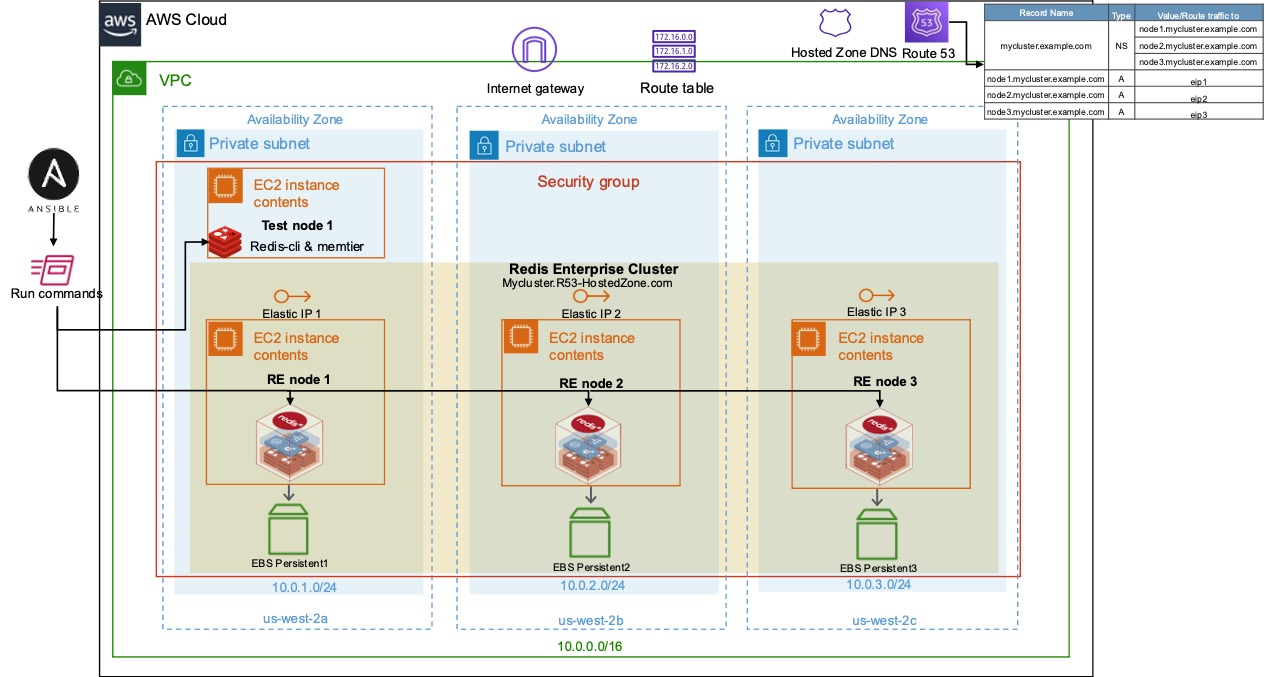
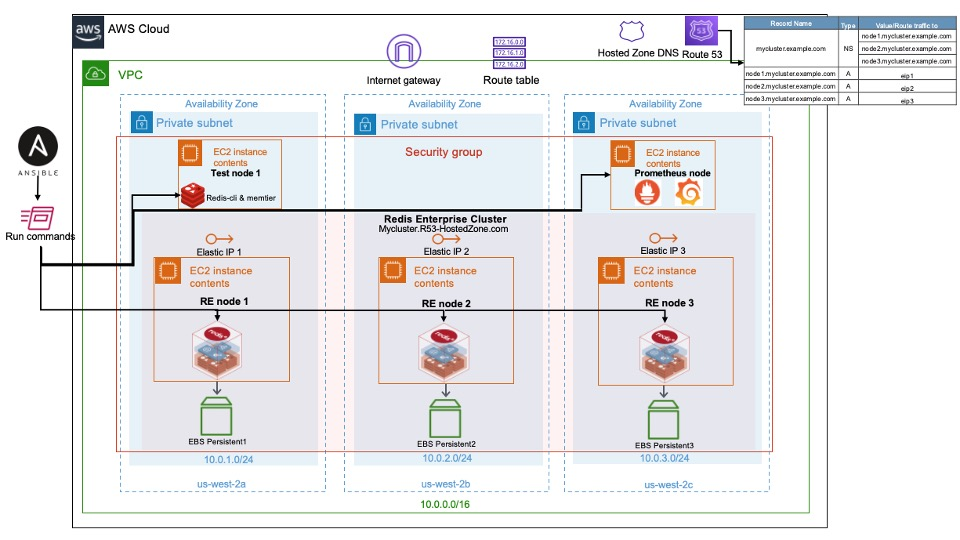
updates

diff --git a/README.md b/README.md
@@ -130,10 +130,14 @@ There are two important files to understand. `modules.tf` and `terraform.tfvars.
  - example output:
  ```
  Outputs:
-
+dns-ns-record-name = "https://redis-tf-us-west-2-cluster.mydomain.com"
+grafana_password = "secret"
+grafana_url = "http://100.20.72.136:3000"
+grafana_username = "admin"
+re-cluster-password = "admin"
 re-cluster-url = "https://redis-tf-us-west-2-cluster.mydomain.com:8443"
 re-cluster-username = "admin@admin.com"
-re-cluster-password = "admin"
+
  ```
 
 You will also find a `grafana_url` if you provisioned the prometheus node.
